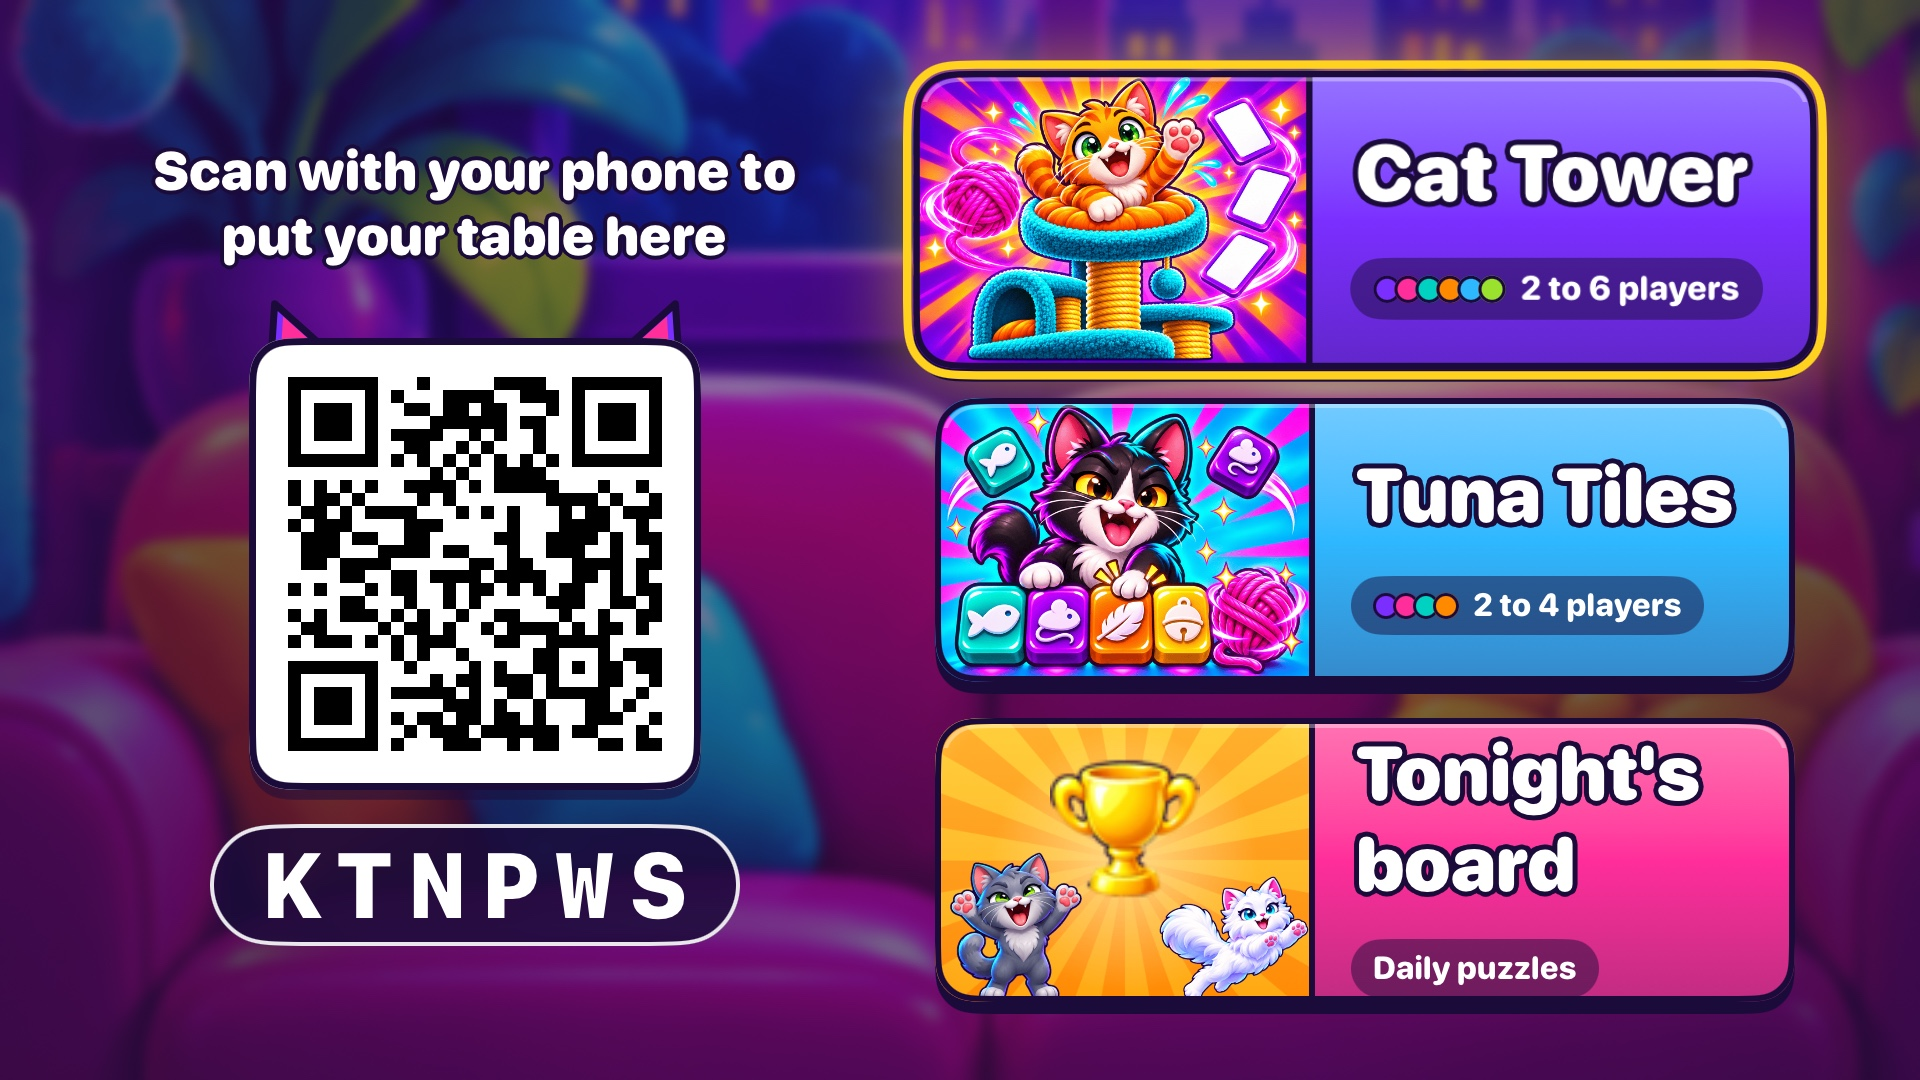
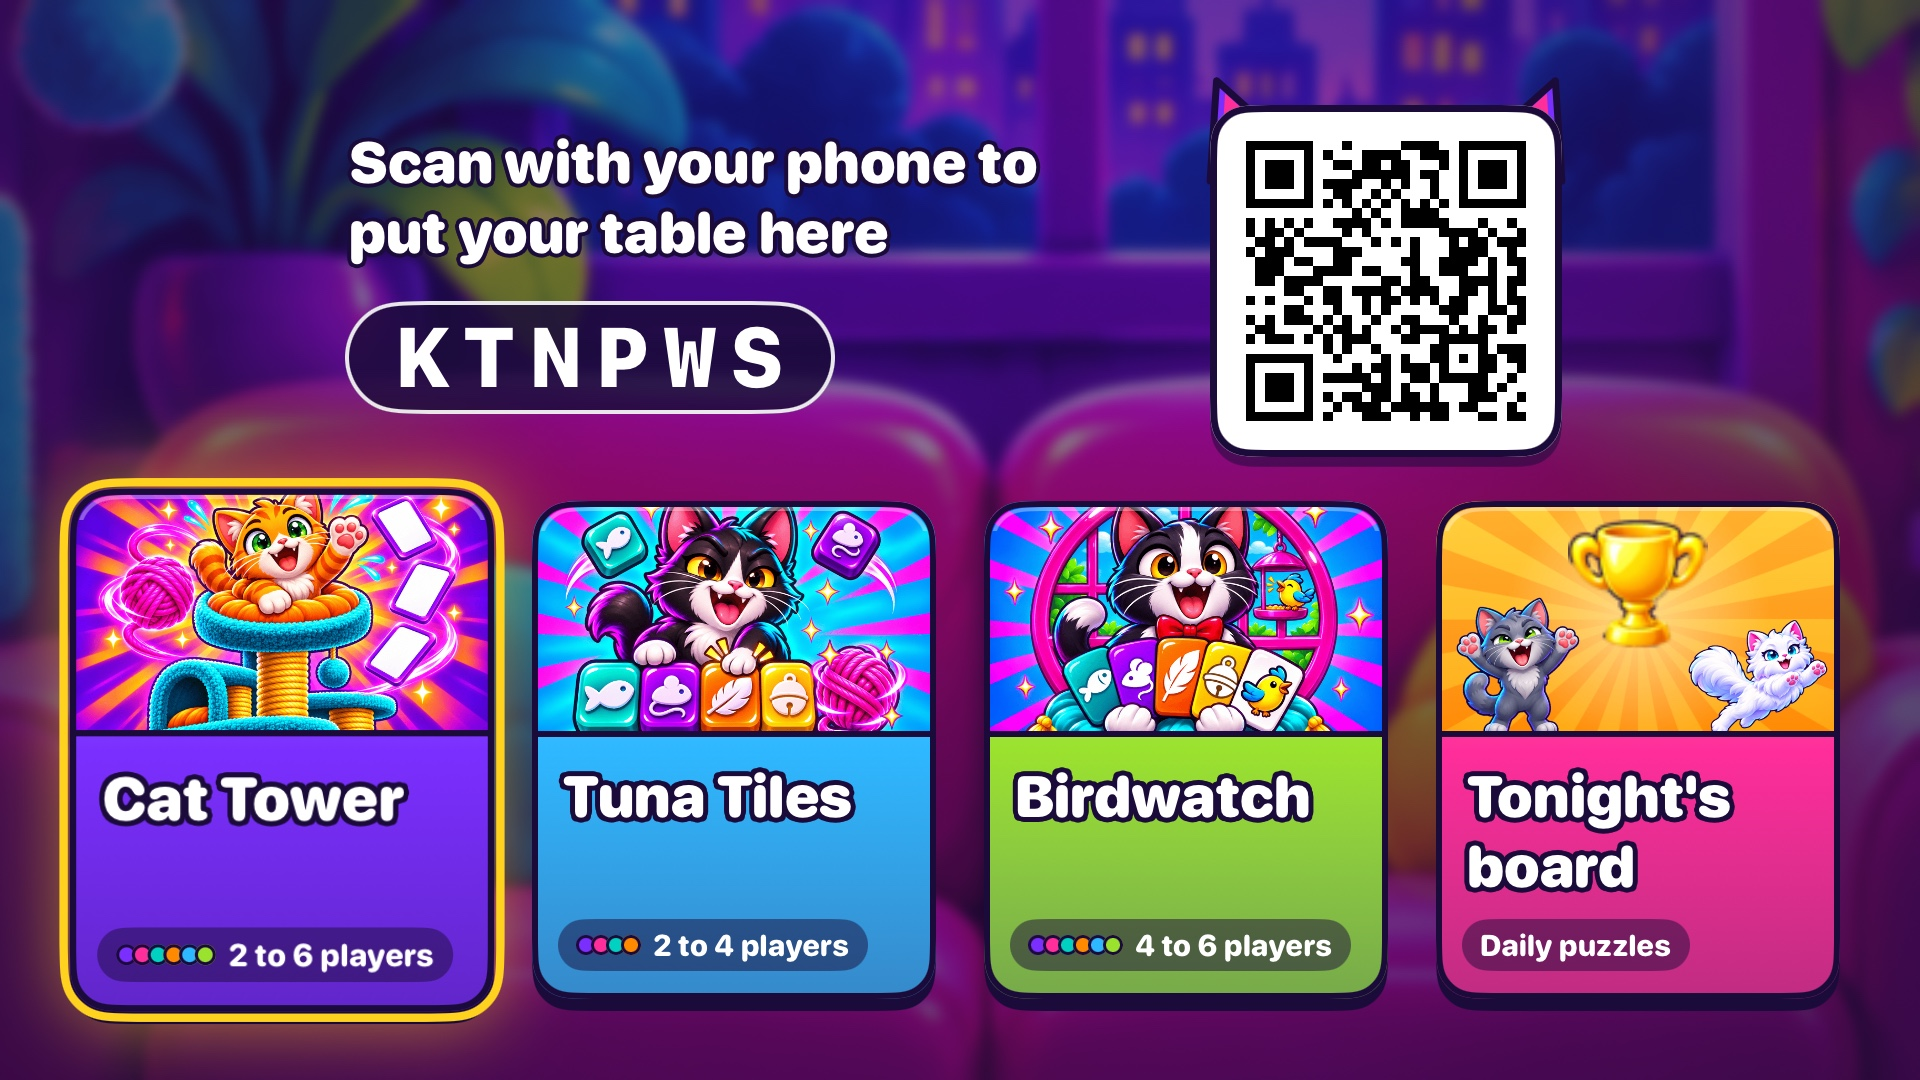
The Apple TV's home shot shows all four posters (#167's shelf)

diff --git a/docs/whats-new/1.3-listing.md b/docs/whats-new/1.3-listing.md
@@ -101,7 +101,7 @@ Apple TV (1920x1080), in this order, from `apps/play-ios/AppStore/screenshots/`.
 
 | Slot | File | Screen |
 | --- | --- | --- |
-| 1 | `tv-1.jpg` | Home: the code to scan, Cat Tower, Tuna Tiles, Birdwatch (new) and Tonight's board |
+| 1 | `tv-1.jpg` | Home, redesigned for four posters: the code to scan, then Cat Tower, Tuna Tiles, Birdwatch (new) and Tonight's board in a row |
 | 2 | `tv-2.jpg` | A Birdwatch table: a trick on the sill, the bid, trump and the team scores (new) |
 | 3 | `tv-3.jpg` | Tonight's board: the Daily Dish on the TV |
 | 4 | `tv-4.jpg` | The lobby |
